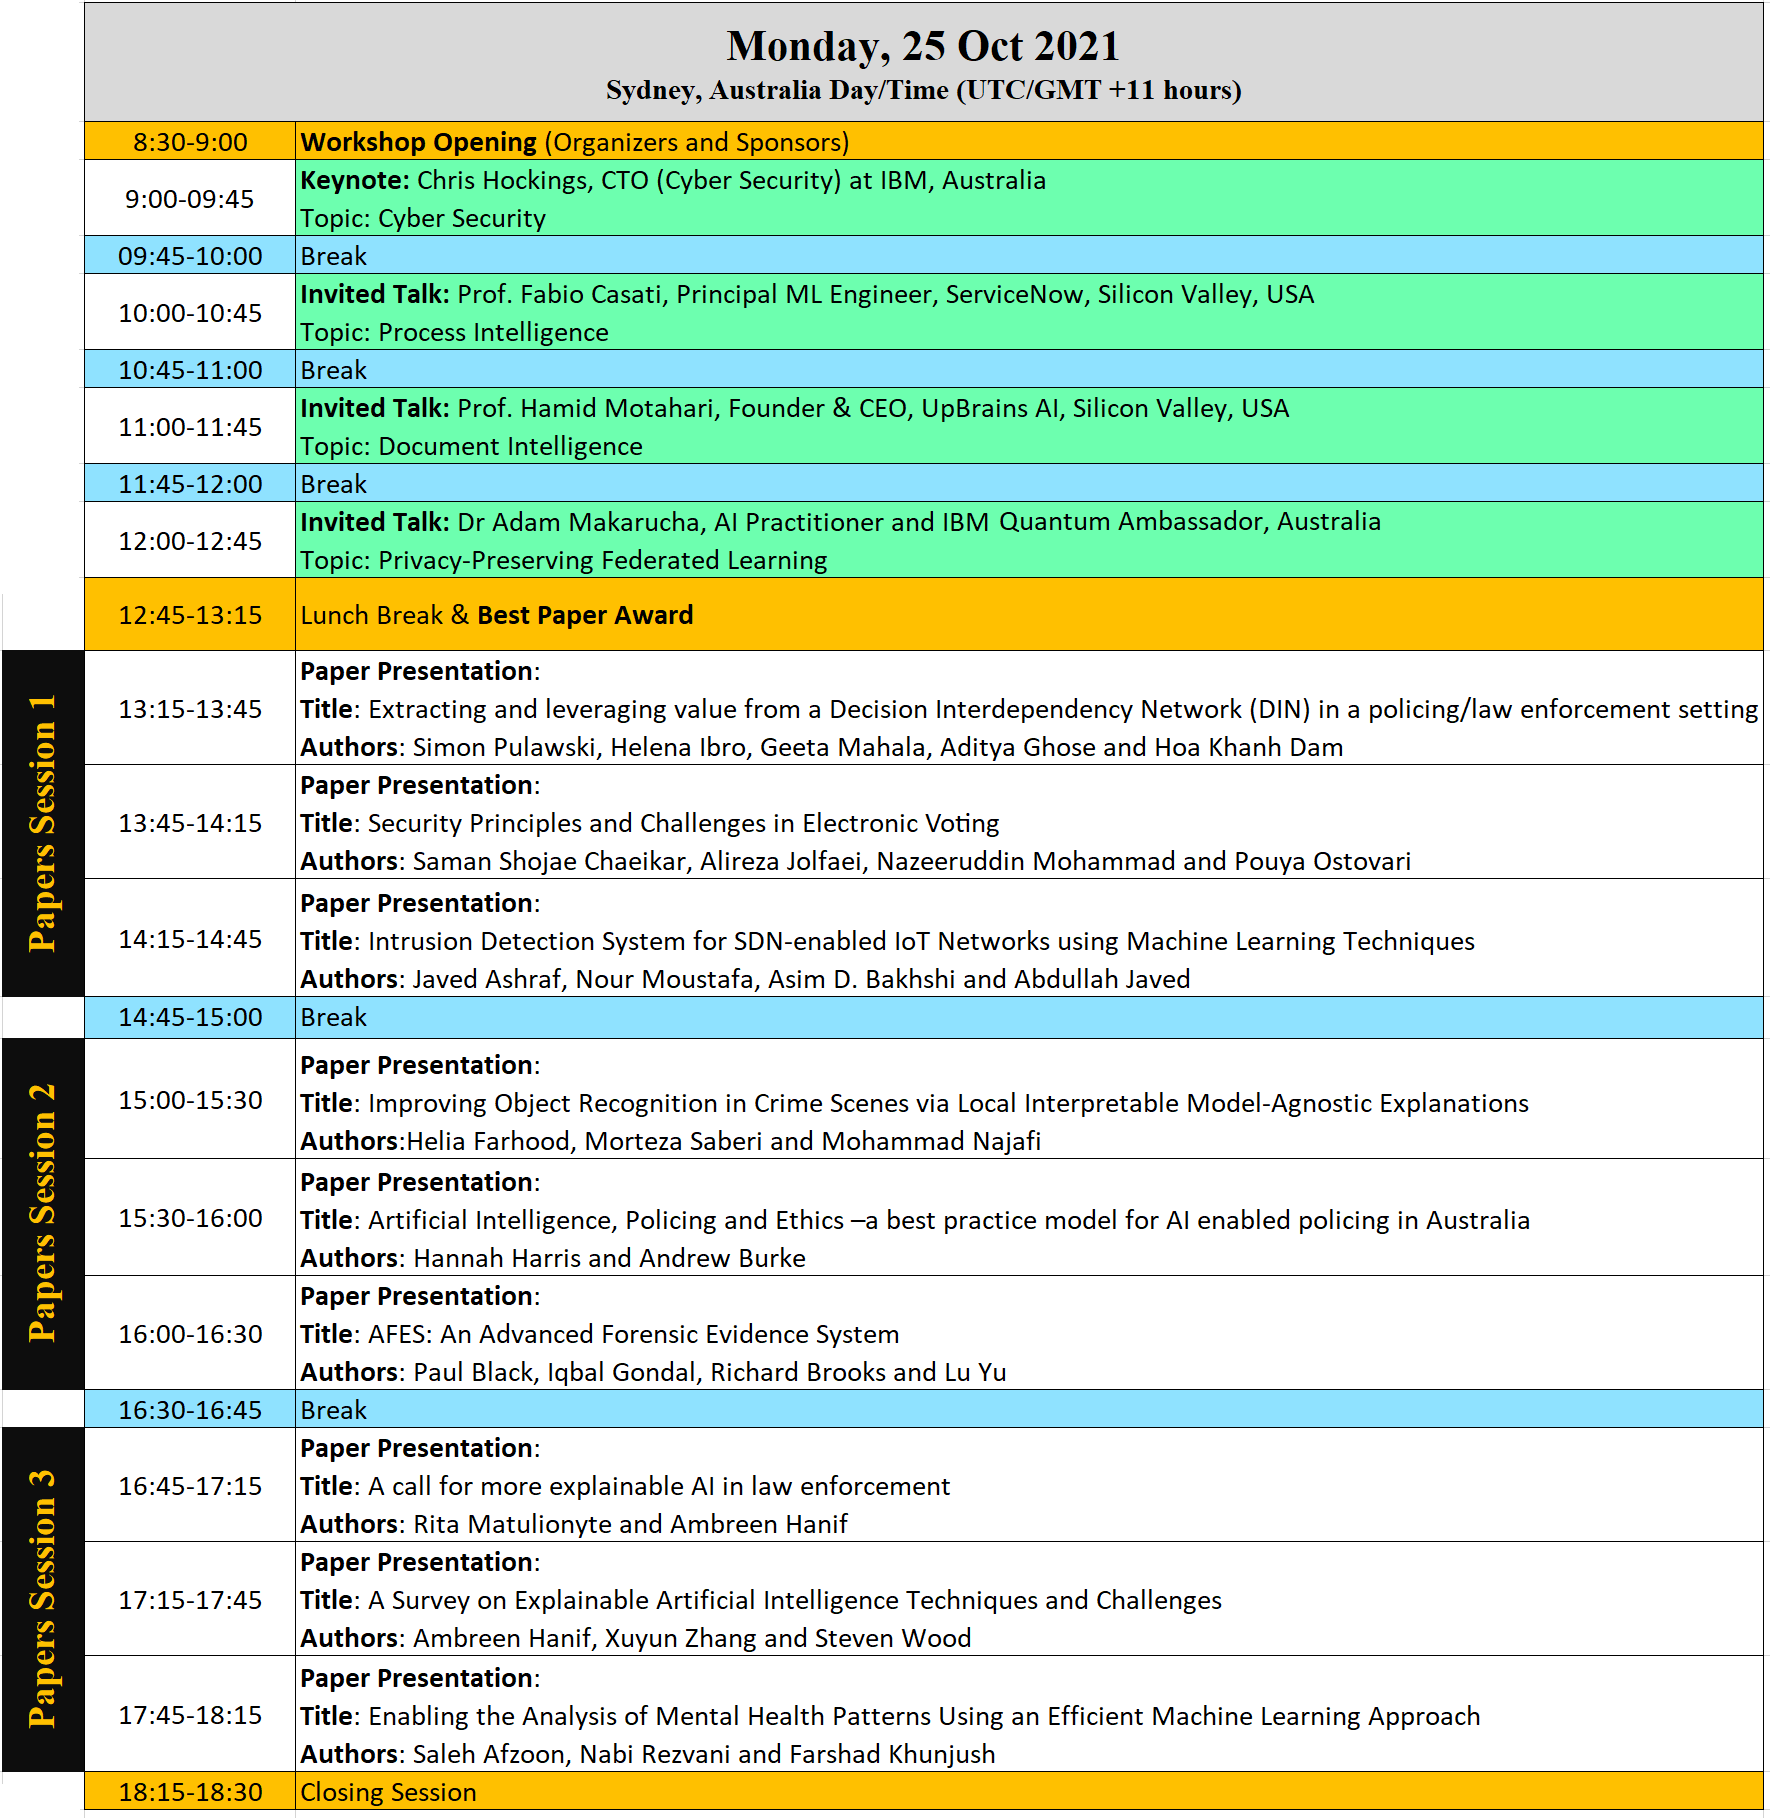
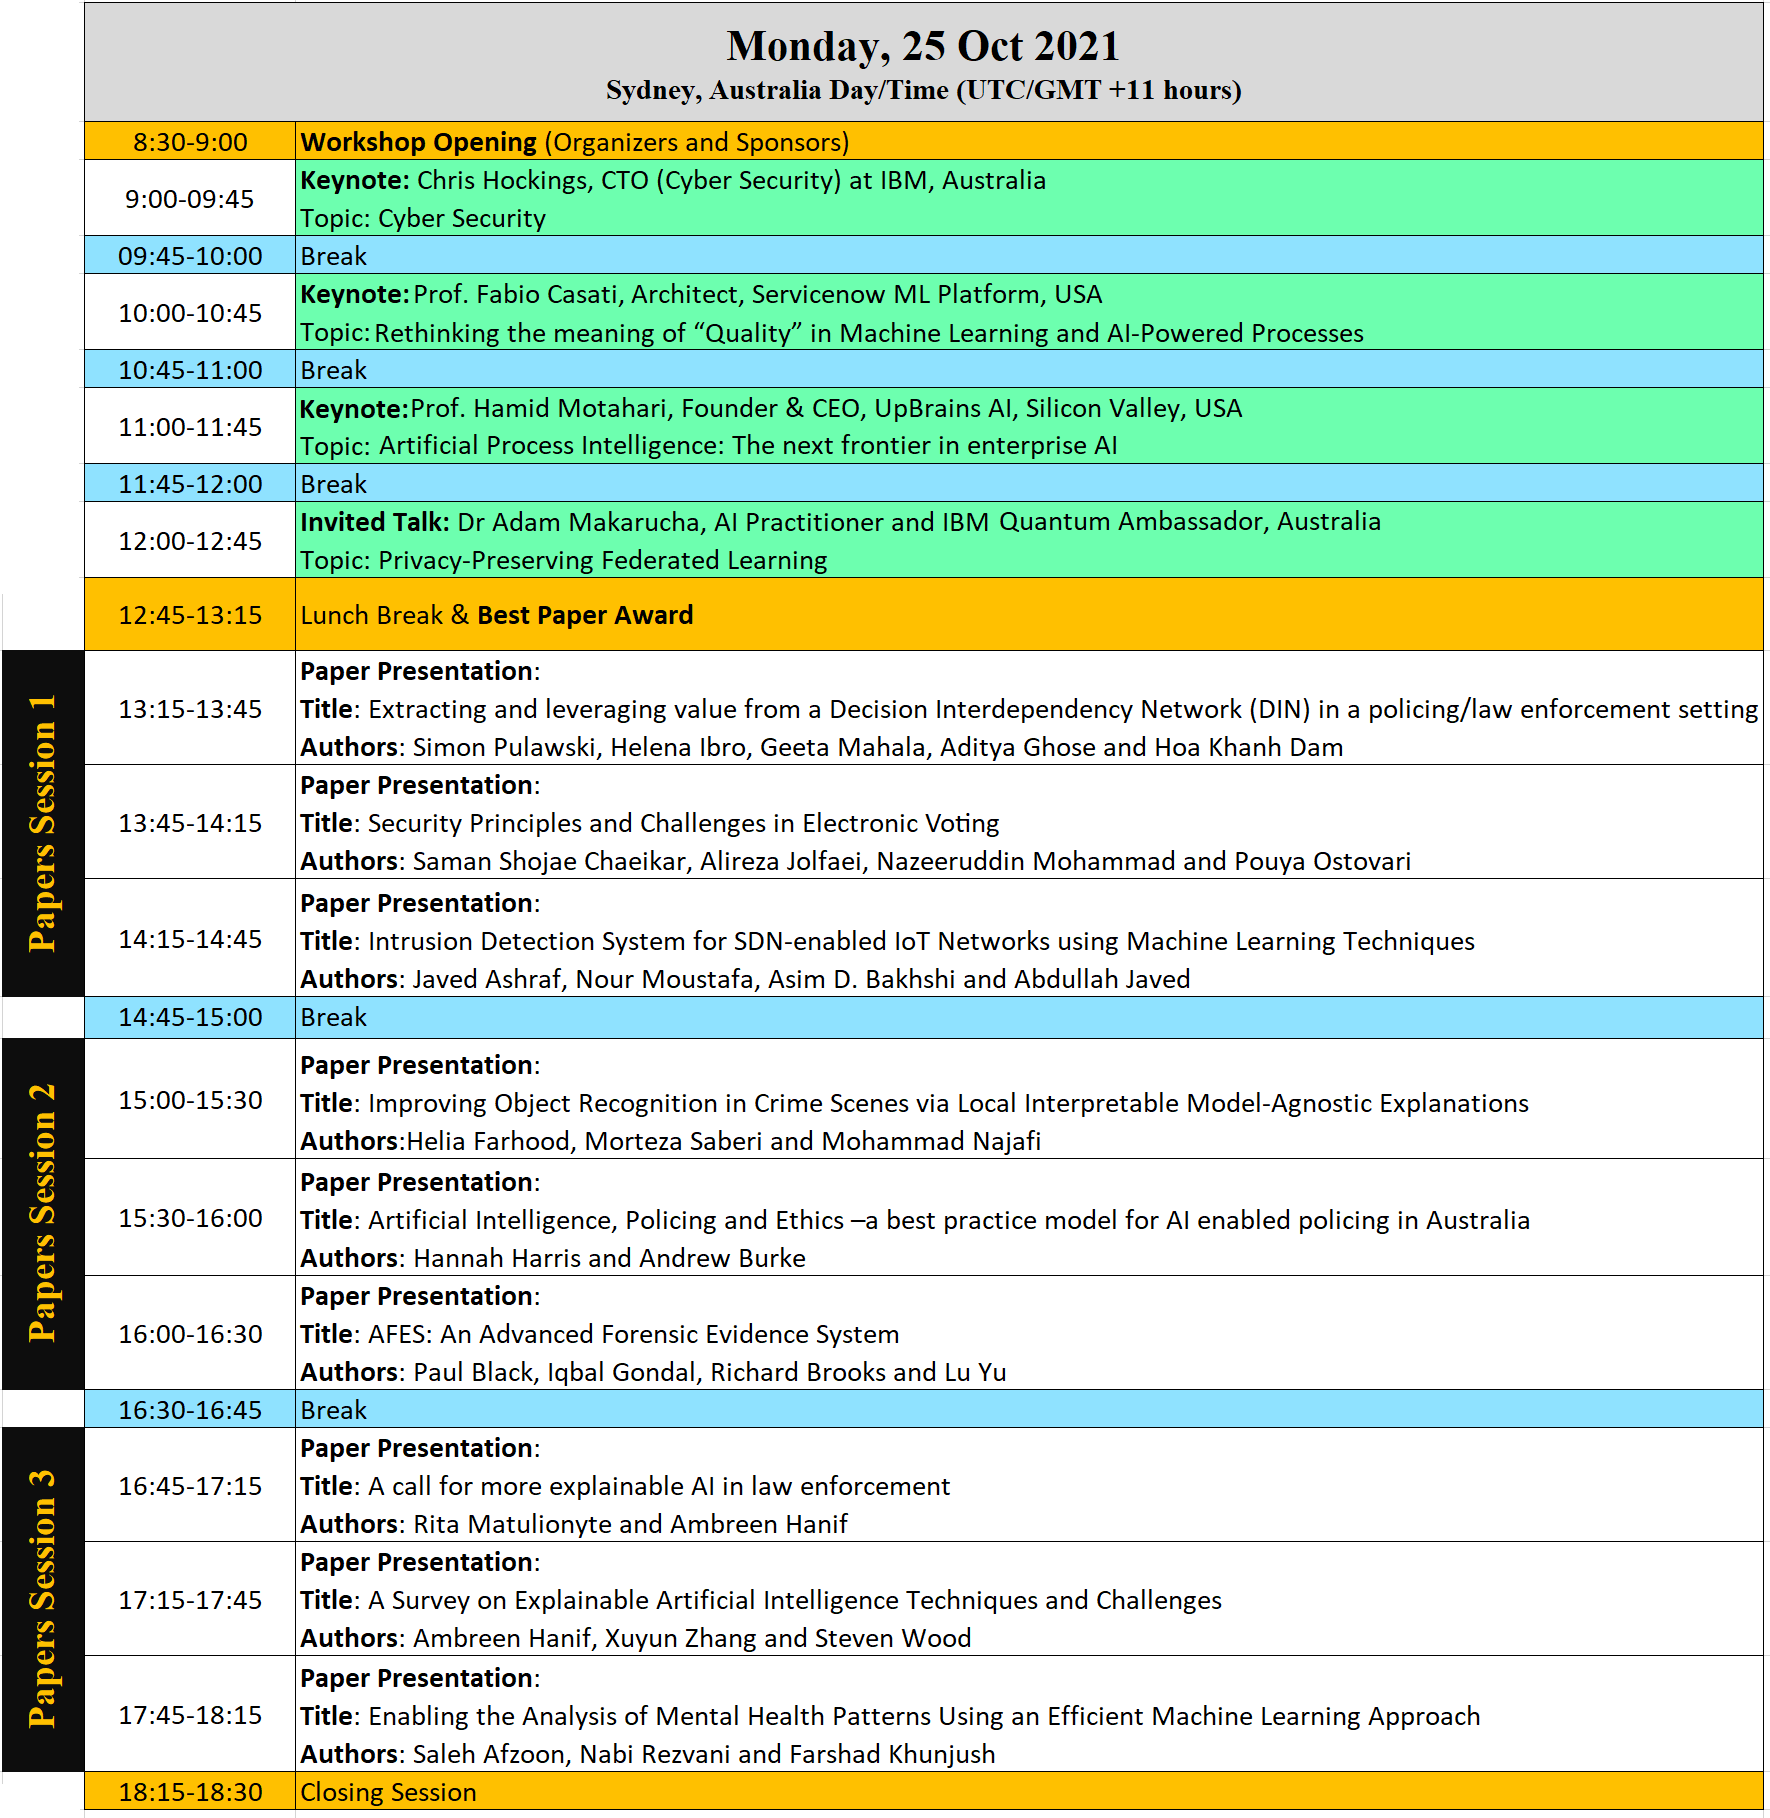
Add files via upload

Changed region(s): [[0.1864, 0.154, 0.7458, 0.1848], [0.1554, 0.2156, 0.7147, 0.2464]]

diff --git a/AIPLE_Workshop/2021/index.html b/AIPLE_Workshop/2021/index.html
@@ -286,10 +286,32 @@
 					<br />
 					<br />
 					
-					<b>Keynote</b> Speaker: <br />
+					<h2>Keynote Speakers:</h2> <br /><br />
+
+
+
+				<table width="100%" border="0">
+					<tr style="text-align: center">
+						<td style="width:5%">&nbsp;</td>
+						<td style="width:30%">
 							<img style="border: 5px solid #aaa;" width="150" src="chris.jpg" /> <br/>
 							<a href="https://www.linkedin.com/in/chrishockings/" target="_blank">Chris Hockings</a> <br/>
-							Chief Technology Officer (Cyber Security) at IBM
+							CTO (Cyber Security), IBM, Australia
+						</td>
+						<td style="width:30%">
+							<img style="border: 5px solid #aaa;" width="150" src="Fabio.jpg" /> <br/>
+							<a href="https://www.linkedin.com/in/sphoebs/" target="_blank">Prof. Fabio Casati</a><br/>
+							Architect, Servicenow ML Platform, USA 
+						</td>
+						<td style="width:30%">
+							<img style="border: 5px solid #aaa;" width="150" src="Hamid.jpg" /> <br/>
+							<a href="https://www.linkedin.com/in/hamidmotahari/" target="_blank">Prof. Hamid Motahari</a><br/>
+							Founder and CEO, UpBrains AI Inc., USA 
+						</td>
+						<td style="width:5%">&nbsp;</td>
+					</tr>
+				</table>
+
 					
 					<br/><br/><br/> 
 					
